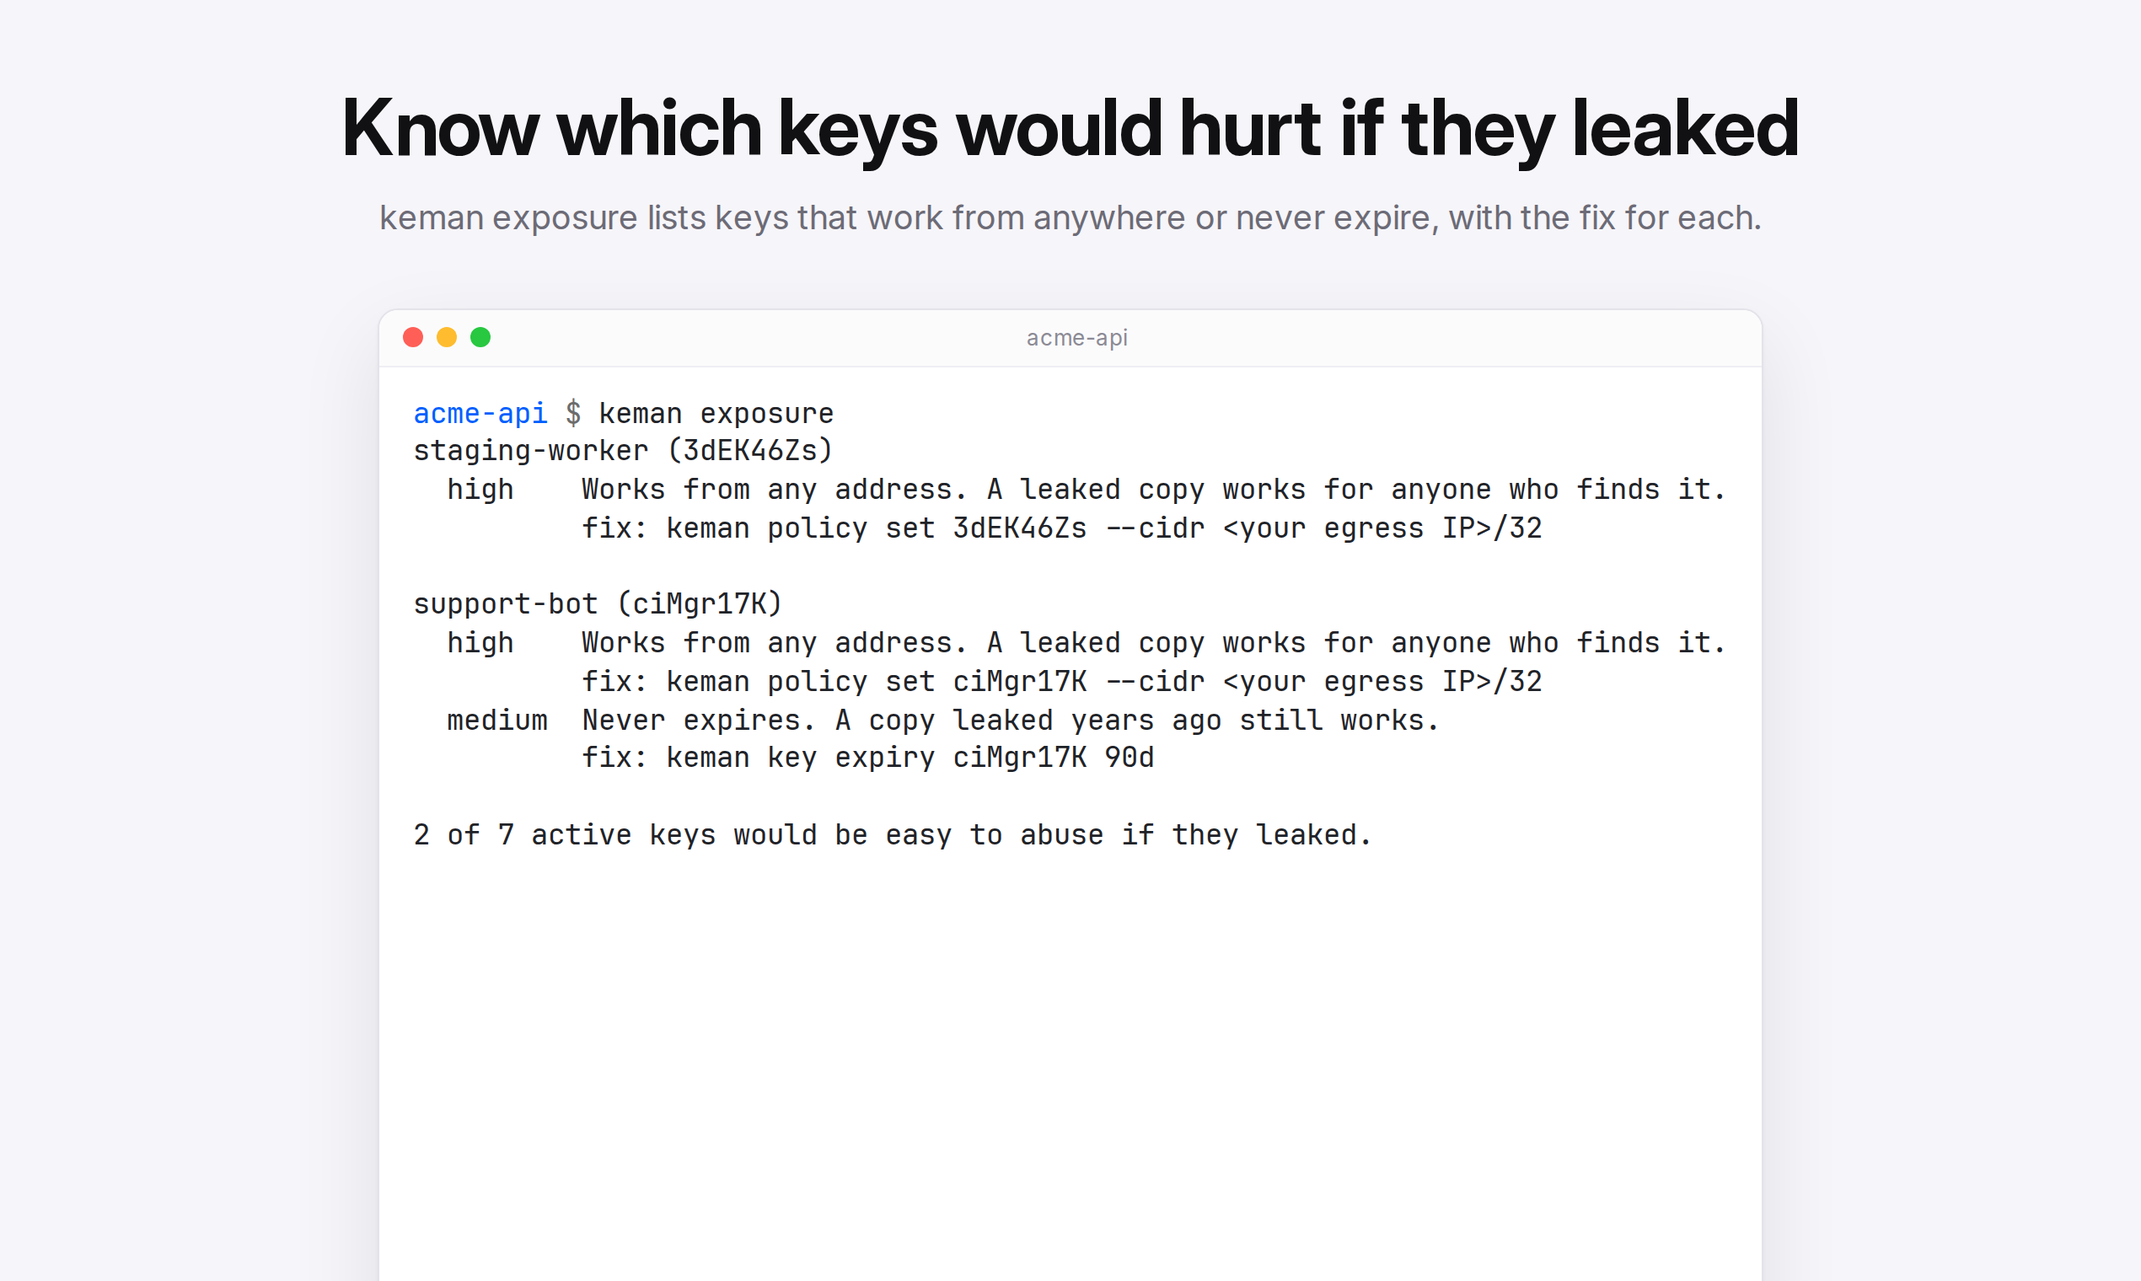
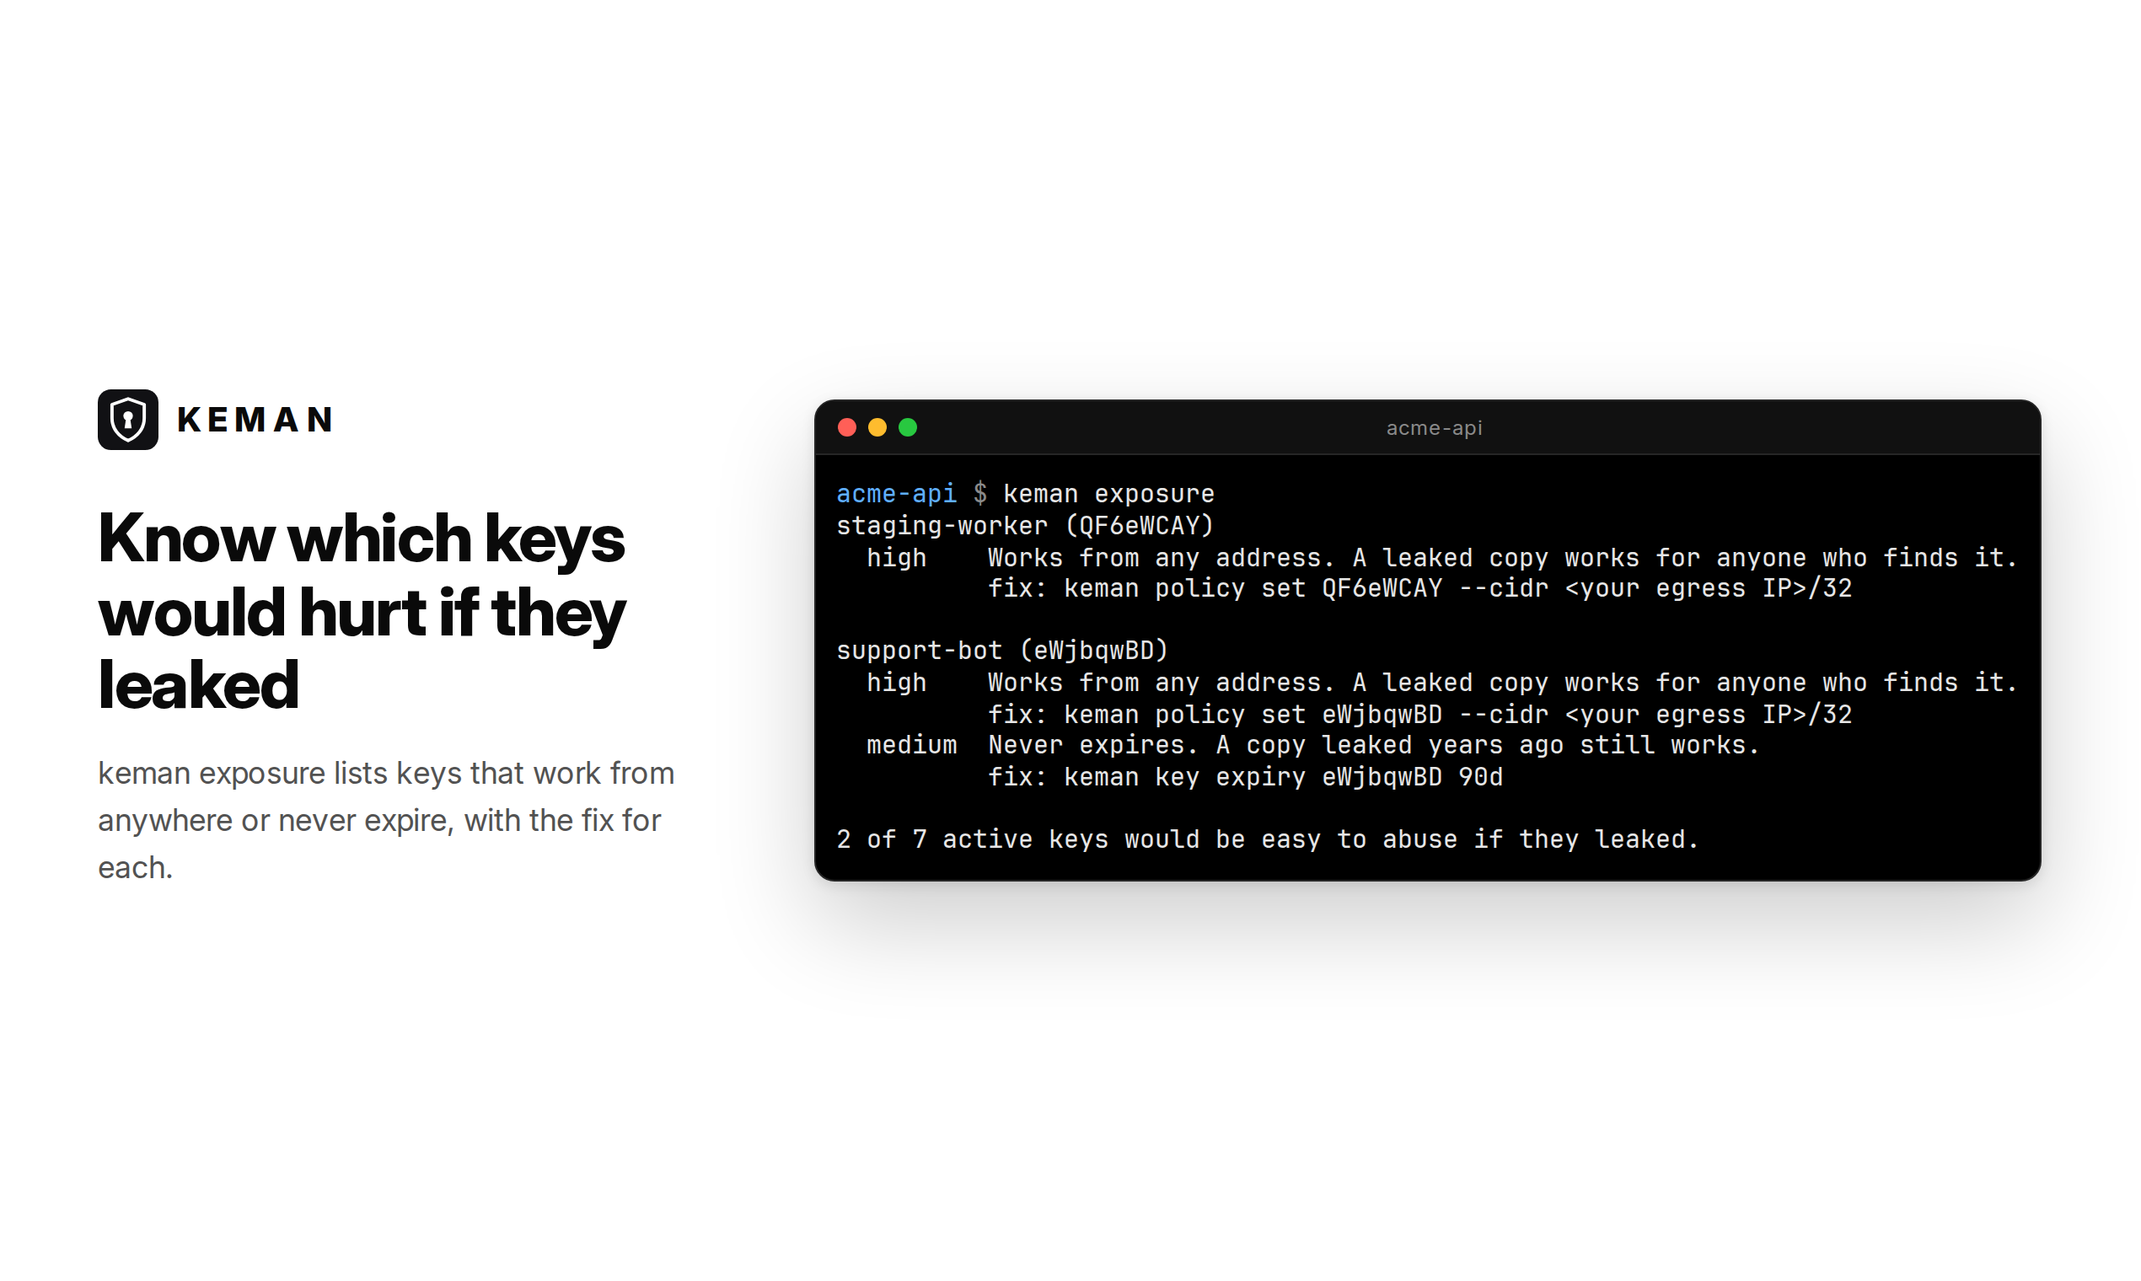
Restyle Product Hunt gallery as flat black and white
- Lay each image out as copy on the left (logo, headline, subtitle) and a
  floating black terminal or white alert card on the right, fully in frame
- Capture the UI and CLI with the dark palette so terminals render on black
- Redraw the how-it-works diagram top to bottom to fit the right column
- Size terminal fonts by binary search; Chromium rounds monospace advances
  to whole pixels, so column widths are tuned to reach the 6px step
- Lead the hero with "OpenSource protection from leaked API keys"

diff --git a/docs/media/src/build.py b/docs/media/src/build.py
@@ -7,9 +7,9 @@ JetBrainsMono-Regular.woff2, JetBrainsMono-Bold.woff2 and
 InterVariable.woff2. Each image is 1270x760 CSS pixels, the size Product Hunt
 recommends; render.mjs shoots them at 2x.
 
-The style is flat and light: a centered headline and one-line subtitle over
-a light background, and the app window centered below, cut off by the
-bottom edge.
+The style is flat black and white: the logo, headline and subtitle on the
+left of a white page, and a black terminal (or a white alert card) floating
+on the right, fully in frame.
 """
 import html
 import json
@@ -30,55 +30,77 @@ CSS = """
 @font-face { font-family: Mono; src: url('FONTS/JetBrainsMono-Bold.woff2'); font-weight: 700; }
 @font-face { font-family: Inter; src: url('FONTS/InterVariable.woff2'); font-weight: 100 900; }
 * { box-sizing: border-box; margin: 0; padding: 0; }
-:root { --fg: #1f2328; --bg: #ffffff; }
+:root { --fg: #e6e6e6; --bg: #000000; }
 html, body { width: WIDTHpx; height: HEIGHTpx; overflow: hidden; }
 body {
-  font-family: Inter, sans-serif; color: #111114; -webkit-font-smoothing: antialiased;
-  background: #f6f5f9; display: flex; flex-direction: column; align-items: center;
-  padding-top: 50px; text-align: center;
+  font-family: Inter, sans-serif; color: #0a0a0a; -webkit-font-smoothing: antialiased; background: #fff;
+  display: flex; align-items: center; gap: 40px; padding: 0 34px 0 58px;
 }
-h1 { font-size: 46px; line-height: 1.1; font-weight: 680; letter-spacing: -.012em; }
-.sub { margin-top: 14px; font-size: 20px; line-height: 1.4; color: #6c6b76; max-width: 1080px; }
-.stage { flex: 1; min-height: 0; width: 100%; margin-top: 40px; display: flex; flex-direction: column;
-  align-items: center; gap: 18px; text-align: left; }
-.win { flex: none; background: var(--bg); border: 1px solid #e4e3ea; border-radius: 12px; overflow: hidden;
-  box-shadow: 0 1px 2px rgba(17, 17, 40, .04), 0 18px 50px rgba(17, 17, 40, .09); }
-.bar { height: 34px; display: flex; align-items: center; gap: 8px; padding: 0 14px;
-  background: #fbfbfc; border-bottom: 1px solid #efeef3; }
-.bar i { width: 12px; height: 12px; border-radius: 50%; display: block; }
+.copy { flex: none; width: 360px; }
+.copy.wide { width: 396px; }
+.logo { display: flex; align-items: center; gap: 11px; font-weight: 800; font-size: 20px; letter-spacing: .2em; }
+.logo svg { width: 36px; height: 36px; }
+h1 { margin-top: 30px; font-size: 40px; line-height: 1.08; font-weight: 780; letter-spacing: -.03em; }
+.sub { margin-top: 18px; font-size: 18px; line-height: 1.55; color: #525252; }
+.chips { display: flex; flex-wrap: wrap; gap: 6px; margin-top: 26px; }
+.chip { display: flex; align-items: center; gap: 7px; padding: 6px 9px; border-radius: 9px; border: 1px solid #e5e5e5;
+  font-size: 12px; font-weight: 600; white-space: nowrap; }
+.cta-row { display: flex; align-items: center; gap: 16px; margin-top: 28px; }
+.cta { padding: 14px 22px; border-radius: 10px; background: #0a0a0a; color: #fff; font-weight: 700; font-size: 16px; white-space: nowrap; }
+.meta { color: #737373; font-size: 13px; font-weight: 500; white-space: nowrap; }
+.stage { flex: 1; min-width: 0; height: 100%; display: flex; flex-direction: column; align-items: center;
+  justify-content: center; gap: 20px; }
+.win { flex: none; background: var(--bg); border: 1px solid #262626; border-radius: 12px; overflow: hidden;
+  box-shadow: 0 24px 60px rgba(0, 0, 0, .20), 0 2px 8px rgba(0, 0, 0, .10); }
+.bar { height: 32px; display: flex; align-items: center; gap: 7px; padding: 0 13px;
+  background: #111; border-bottom: 1px solid #262626; }
+.bar i { width: 11px; height: 11px; border-radius: 50%; display: block; }
 .bar i:nth-child(1) { background: #ff5f57; } .bar i:nth-child(2) { background: #febc2e; } .bar i:nth-child(3) { background: #28c840; }
-.bar span { flex: 1; text-align: center; margin-right: 52px; font-size: 13px; color: #8b8a94; }
-pre { font-family: Mono, monospace; color: var(--fg); line-height: 1.34; padding: 16px 20px 18px; white-space: pre; }
+.bar span { flex: 1; text-align: center; margin-right: 46px; font-size: 12px; color: #8a8a8a; }
+pre { font-family: Mono, monospace; color: var(--fg); line-height: 1.24; padding: 14px 12px; white-space: pre;
+  font-variant-ligatures: none; }
 """
 
-# fit() shrinks each terminal's font until it fits its width (data-maxw, or
-# 1120px) and the height that stays visible (data-maxh, or down to the
-# bottom edge). Then the last box in the stage is stretched past the bottom
-# edge so the image cuts it off. render.mjs calls fit() after fonts load.
+# fit() shrinks each terminal's font until the window fits the stage's width
+# and its share of the height (data-maxh, or what the other boxes leave).
+# render.mjs calls fit() after fonts load.
 FIT_JS = """
 <script>
 window.fit = () => {
   const stage = document.querySelector('.stage');
-  for (const win of document.querySelectorAll('.win')) {
+  const gap = parseFloat(getComputedStyle(stage).rowGap) || 0;
+  for (const win of stage.querySelectorAll('.win')) {
     const pre = win.querySelector('pre');
-    const maxW = +(win.dataset.maxw || 1120);
-    let fs = +win.dataset.maxfont;
-    for (let i = 0; i < 8; i++) {
-      pre.style.fontSize = fs + 'px';
-      const top = win.getBoundingClientRect().top;
-      const maxH = +(win.dataset.maxh || (innerHeight - top - 26));
-      const r = Math.min(1, maxW / win.offsetWidth, maxH / win.offsetHeight);
-      if (r >= 0.999) break;
-      fs = Math.floor(fs * r * 100) / 100 - 0.05;
+    const others = [...stage.children].filter((c) => c !== win)
+      .reduce((h, c) => h + c.offsetHeight + gap, 0);
+    const maxW = stage.clientWidth;
+    const maxH = +(win.dataset.maxh || (innerHeight - 96 - others));
+    const fits = () => pre.scrollWidth + 2 <= maxW && win.offsetHeight <= maxH;
+    let lo = 6, hi = +win.dataset.maxfont;
+    pre.style.fontSize = hi + 'px';
+    if (!fits()) {
+      for (let i = 0; i < 14; i++) {
+        const mid = (lo + hi) / 2;
+        pre.style.fontSize = mid + 'px';
+        if (fits()) lo = mid; else hi = mid;
+      }
+      pre.style.fontSize = lo + 'px';
     }
-  }
-  const last = stage.lastElementChild;
-  if (last && !last.classList.contains('nobleed')) {
-    last.style.minHeight = (innerHeight - last.getBoundingClientRect().top + 40) + 'px';
   }
 };
 </script>
 """
+
+CHIP_ICONS = {
+    "globe": "<circle cx='12' cy='12' r='9'/><path d='M3 12h18M12 3a14 14 0 0 1 0 18M12 3a14 14 0 0 0 0 18'/>",
+    "layers": "<path d='M12 2 3 7l9 5 9-5zM3 17l9 5 9-5M3 12l9 5 9-5'/>",
+    "clock": "<circle cx='12' cy='12' r='9'/><path d='M12 7v5l3 2'/>",
+}
+
+
+def chip(icon, label):
+    return (f"<div class='chip'><svg width='15' height='15' viewBox='0 0 24 24' fill='none' stroke='currentColor' "
+            f"stroke-width='2.2'>{CHIP_ICONS[icon]}</svg>{html.escape(label)}</div>")
 
 
 def page(body, extra_css=""):
@@ -106,9 +128,9 @@ def load(shots, name):
     return "\n".join(out)
 
 
-def terminal(shots, name, title, max_w=None, max_font=17.0, max_h=None):
+def terminal(shots, name, title, max_font=15.0, max_h=None):
     """A terminal window holding one capture."""
-    limit = (f" data-maxw='{max_w}'" if max_w else "") + (f" data-maxh='{max_h}'" if max_h else "")
+    limit = f" data-maxh='{max_h}'" if max_h else ""
     return (
         f"<div class='win' data-maxfont='{max_font}'{limit}><div class='bar'><i></i><i></i><i></i>"
         f"<span>{html.escape(title)}</span></div>"
@@ -117,17 +139,17 @@ def terminal(shots, name, title, max_w=None, max_font=17.0, max_h=None):
 
 
 SLACK_CSS = """
-.slack { width: 1060px; background: #fff; border: 1px solid #e4e3ea; border-radius: 12px; overflow: hidden;
-  box-shadow: 0 1px 2px rgba(17,17,40,.04), 0 18px 50px rgba(17,17,40,.09); font-family: Inter, sans-serif; }
-.slack .chan { padding: 13px 20px; border-bottom: 1px solid #efeef3; color: #1d1c1d; font-weight: 700; font-size: 15px; }
-.slack .chan small { color: #8b8a94; font-weight: 400; margin-left: 6px; }
-.msg { display: flex; gap: 12px; padding: 16px 20px 20px; }
-.msg svg { width: 38px; height: 38px; flex: none; border-radius: 8px; }
-.who { font-size: 15px; font-weight: 800; color: #1d1c1d; }
-.who b { font-size: 10px; font-weight: 700; color: #616061; background: #ececee; border-radius: 3px;
+.slack { width: 100%; background: #fff; border: 1px solid #e5e5e5; border-radius: 12px; overflow: hidden;
+  box-shadow: 0 24px 60px rgba(0, 0, 0, .12), 0 2px 8px rgba(0, 0, 0, .06); font-family: Inter, sans-serif; }
+.slack .chan { padding: 12px 18px; border-bottom: 1px solid #eee; color: #0a0a0a; font-weight: 700; font-size: 14px; }
+.slack .chan small { color: #8a8a8a; font-weight: 400; margin-left: 6px; }
+.msg { display: flex; gap: 12px; padding: 14px 18px 18px; }
+.msg svg { width: 36px; height: 36px; flex: none; border-radius: 8px; }
+.who { font-size: 14px; font-weight: 800; color: #0a0a0a; }
+.who b { font-size: 10px; font-weight: 700; color: #525252; background: #eee; border-radius: 3px;
   padding: 1px 4px; margin-left: 5px; vertical-align: 2px; }
-.who small { font-weight: 400; color: #8b8a94; font-size: 12px; margin-left: 6px; }
-.text { margin-top: 4px; font-size: 15px; line-height: 1.55; color: #1d1c1d; white-space: pre-wrap; word-break: break-word; }
+.who small { font-weight: 400; color: #8a8a8a; font-size: 12px; margin-left: 6px; }
+.text { margin-top: 4px; font-size: 13.5px; line-height: 1.5; color: #0a0a0a; white-space: pre-wrap; word-break: break-word; }
 """
 
 
@@ -151,43 +173,45 @@ def find_alert(shots, rule, key=None):
 
 
 DIAGRAM_CSS = """
-.stage { justify-content: center; padding-bottom: 60px; }
-.flow { display: grid; grid-template-columns: 240px 120px 330px 120px 240px; align-items: center; }
-.node { background: #fff; border: 1px solid #e4e3ea; border-radius: 14px; padding: 18px 20px;
-  box-shadow: 0 1px 2px rgba(17,17,40,.04), 0 14px 40px rgba(17,17,40,.07); }
-.node h3 { font-size: 18px; font-weight: 700; margin-bottom: 8px; }
-.node p { font-size: 14px; line-height: 1.5; color: #6c6b76; }
-.node code { font-family: Mono, monospace; font-size: 13px; color: #1f2328; background: #f2f1f6; border-radius: 4px; padding: 1px 5px; }
-.node.keman { border: 1.5px solid #111114; padding: 22px; }
-.node.keman h3 { display: flex; align-items: center; gap: 10px; font-size: 22px; }
-.node.keman svg { width: 32px; height: 32px; border-radius: 7px; }
-.node.keman ul { list-style: none; margin-top: 8px; }
-.node.keman li { font-size: 14px; line-height: 1.45; color: #3f3e48; padding: 7px 0; border-top: 1px solid #efeef3; }
+.flow { width: 100%; max-width: 680px; display: flex; flex-direction: column; align-items: stretch; }
+.pair { display: grid; grid-template-columns: 1fr 1fr; gap: 20px; }
+.node { background: #fff; border: 1px solid #e5e5e5; border-radius: 12px; padding: 16px 18px; }
+.node h3 { font-size: 17px; font-weight: 700; margin-bottom: 6px; }
+.node p { font-size: 14px; line-height: 1.5; color: #525252; }
+.node code { font-family: Mono, monospace; font-size: 13px; color: #0a0a0a; background: #f5f5f5; border-radius: 4px; padding: 1px 5px; }
+.node.keman { background: #000; border-color: #000; color: #fff; padding: 20px 22px;
+  box-shadow: 0 24px 60px rgba(0, 0, 0, .20), 0 2px 8px rgba(0, 0, 0, .10); }
+.node.keman h3 { display: flex; align-items: center; gap: 10px; font-size: 20px; }
+.node.keman h3 svg { width: 30px; height: 30px; border-radius: 7px; outline: 1px solid #333; }
+.node.keman ul { list-style: none; margin-top: 6px; }
+.node.keman li { font-size: 14px; line-height: 1.45; color: #a3a3a3; padding: 7px 0; border-top: 1px solid #262626; }
 .node.keman li:first-child { border-top: 0; }
-.node.keman li b { color: #111114; font-weight: 650; }
-.node.thief { border-color: #f3c4c0; }
-.node.thief h3 { color: #c7372f; }
-.arrow { position: relative; height: 1.5px; margin: 0 12px; background: #8b8a94; }
-.arrow::after { content: ''; position: absolute; right: -1px; top: -5px; border: 6px solid transparent;
-  border-left: 9px solid #8b8a94; border-right: 0; }
-.arrow span { position: absolute; left: 50%; transform: translateX(-50%); bottom: 9px; white-space: nowrap;
-  font-family: Mono, monospace; font-size: 12.5px; color: #3f3e48; }
-.arrow.bad { background: #d9534f; }
-.arrow.bad::after { border-left-color: #d9534f; }
-.ups p { font-size: 14.5px; color: #3f3e48; padding: 3px 0; }
-.stack { display: flex; flex-direction: column; gap: 64px; }
-.blocked { margin-top: 12px; font-size: 13.5px; font-weight: 600; color: #c7372f; }
+.node.keman li b { color: #fff; font-weight: 650; }
+.node.thief h3 { color: #dc2626; }
+.node .blocked { margin-top: 10px; font-size: 13.5px; font-weight: 600; color: #f87171; }
+.down { display: grid; grid-template-columns: 1fr 1fr; gap: 20px; height: 56px; }
+.down.one { grid-template-columns: 1fr; }
+.arrow { position: relative; justify-self: center; width: 1.5px; height: 100%; background: #0a0a0a; }
+.arrow::after { content: ''; position: absolute; left: -5.25px; bottom: -1px; border: 6px solid transparent;
+  border-top: 9px solid #0a0a0a; border-bottom: 0; }
+.arrow span { position: absolute; left: 12px; top: 50%; transform: translateY(-50%); white-space: nowrap;
+  font-family: Mono, monospace; font-size: 12.5px; color: #525252; }
+.arrow.bad { background: #dc2626; }
+.arrow.bad::after { border-top-color: #dc2626; }
+.ups { display: flex; align-items: baseline; gap: 14px; flex-wrap: wrap; }
+.ups h3 { margin: 0; }
+.ups p { color: #0a0a0a; }
 """
 
 
 def diagram():
     return f"""
-<div class='flow nobleed'>
-  <div class='stack'>
+<div class='flow'>
+  <div class='pair'>
     <div class='node'><h3>Your app</h3><p>Holds a virtual key</p><p style='margin-top:6px'><code>kmn_x7Kq…</code></p></div>
     <div class='node thief'><h3>A leaked copy</h3><p>Used from a network or country you never allowed</p></div>
   </div>
-  <div class='stack'>
+  <div class='down'>
     <div class='arrow'><span>kmn_ key</span></div>
     <div class='arrow bad'><span>kmn_ key</span></div>
   </div>
@@ -201,8 +225,8 @@ def diagram():
     </ul>
     <p class='blocked'>✕ Leaked copy refused, alert sent</p>
   </div>
-  <div class='arrow'><span>real key</span></div>
-  <div class='node ups'><h3>Provider</h3><p>OpenAI</p><p>Anthropic</p><p>OpenRouter</p><p>Stripe, GitHub</p><p>Any header-auth API</p></div>
+  <div class='down one'><div class='arrow'><span>real key</span></div></div>
+  <div class='node ups'><h3>Provider</h3><p>OpenAI · Anthropic · OpenRouter · Stripe · GitHub · any header-auth API</p></div>
 </div>"""
 
 
@@ -212,15 +236,23 @@ def build(shots, fonts, out):
             raise SystemExit(f"missing font {os.path.join(fonts, f)}")
     os.makedirs(out, exist_ok=True)
 
-    def shot(name, title, sub, stage, css=""):
-        body = f"<h1>{title}</h1><p class='sub'>{sub}</p><div class='stage'>{stage}</div>"
+    def shot(name, title, sub, stage, css="", extra=""):
+        wide = " wide" if extra else ""
+        body = (f"<div class='copy{wide}'><div class='logo'>{LOGO}KEMAN</div><h1>{title}</h1>"
+                f"<p class='sub'>{sub}</p>{extra}</div><div class='stage'>{stage}</div>")
         doc = page(body, css).replace("FONTS/", "file://" + os.path.abspath(fonts) + "/")
         with open(os.path.join(out, name + ".html"), "w", encoding="utf-8") as f:
             f.write(doc)
 
-    shot("01-hero", "Your apps never hold the real API key",
-         "Keman keeps your provider keys and hands apps virtual ones you can lock, expire, watch, and kill.",
-         terminal(shots, "keys", "keman"))
+    hero_extra = (
+        "<div class='chips'>" + chip("globe", "IP & country locks") + chip("layers", "Canary keys")
+        + chip("clock", "Auto-expiry") + "</div>"
+        "<div class='cta-row'><div class='cta'>Get Keman on GitHub →</div>"
+        "<div class='meta'>One Go binary · Apache-2.0</div></div>"
+    )
+    shot("01-hero", "OpenSource protection from leaked API keys",
+         "Apps get virtual keys. The real key never leaves Keman, so a leaked copy is locked, watched, and killed in one command.",
+         terminal(shots, "keys", "keman"), extra=hero_extra)
     shot("02-how-it-works", "A leaked key only works where you allow it",
          "Apps send a virtual key. Keman checks it, then forwards the request with the real key.",
          diagram(), DIAGRAM_CSS)
@@ -235,11 +267,11 @@ def build(shots, fonts, out):
          terminal(shots, "detections", "keman · detections"))
     shot("06-contain", "Kill a leaked key in one command",
          "The app gets a replacement with the same policy. The real provider key stays untouched.",
-         terminal(shots, "rotate", "acme-api", max_font=16))
+         terminal(shots, "rotate", "acme-api"))
     shot("07-canary", "Plant a decoy, catch the thief",
          "Canary keys look real, never reach the provider, and raise a critical alert on first use.",
-         terminal(shots, "canary", "acme-api", max_h=225) + slack(find_alert(shots, "canary_used"), when="4:32 PM"),
-         SLACK_CSS + ".slack { width: 1000px; }")
+         terminal(shots, "canary", "acme-api", max_h=200) + slack(find_alert(shots, "canary_used"), when="4:32 PM"),
+         SLACK_CSS)
     shot("08-scan", "Find the keys you already leaked",
          "keman scan checks files and every commit, offline, and exits 3 so it can gate CI.",
          terminal(shots, "scan", "acme-api"))
